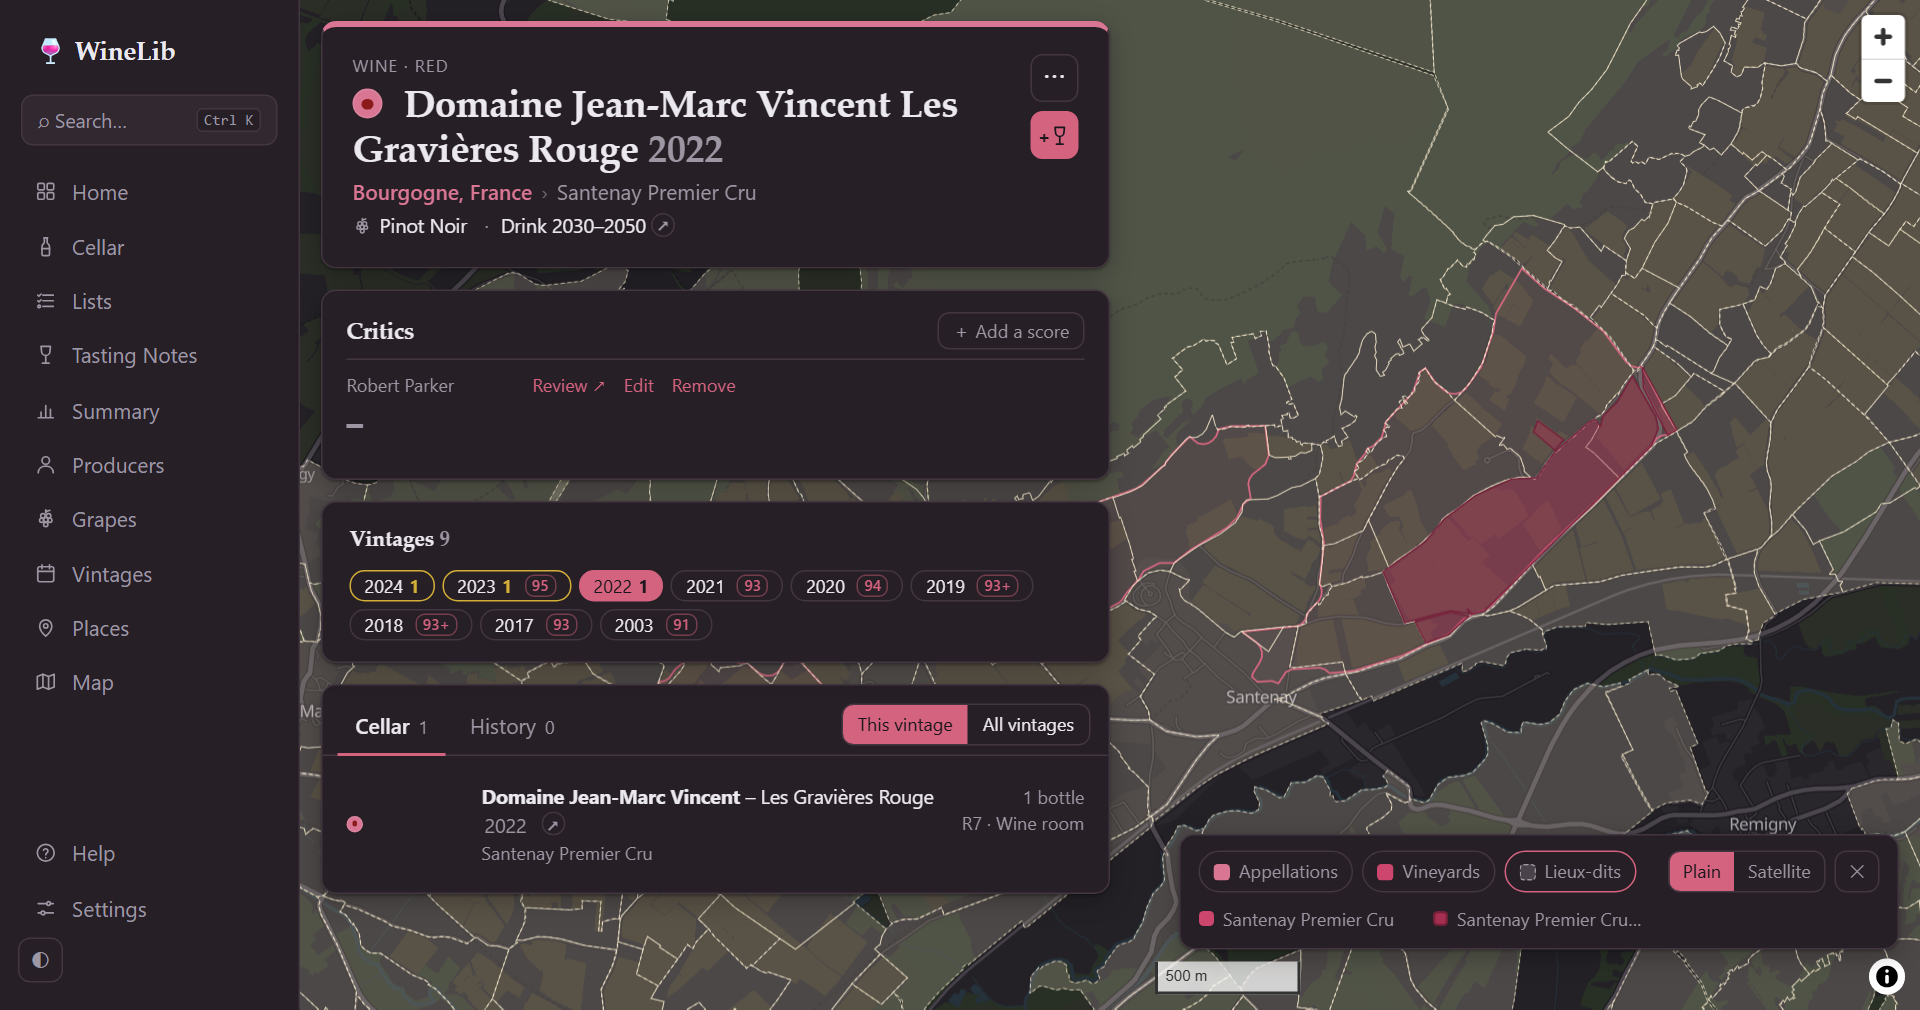
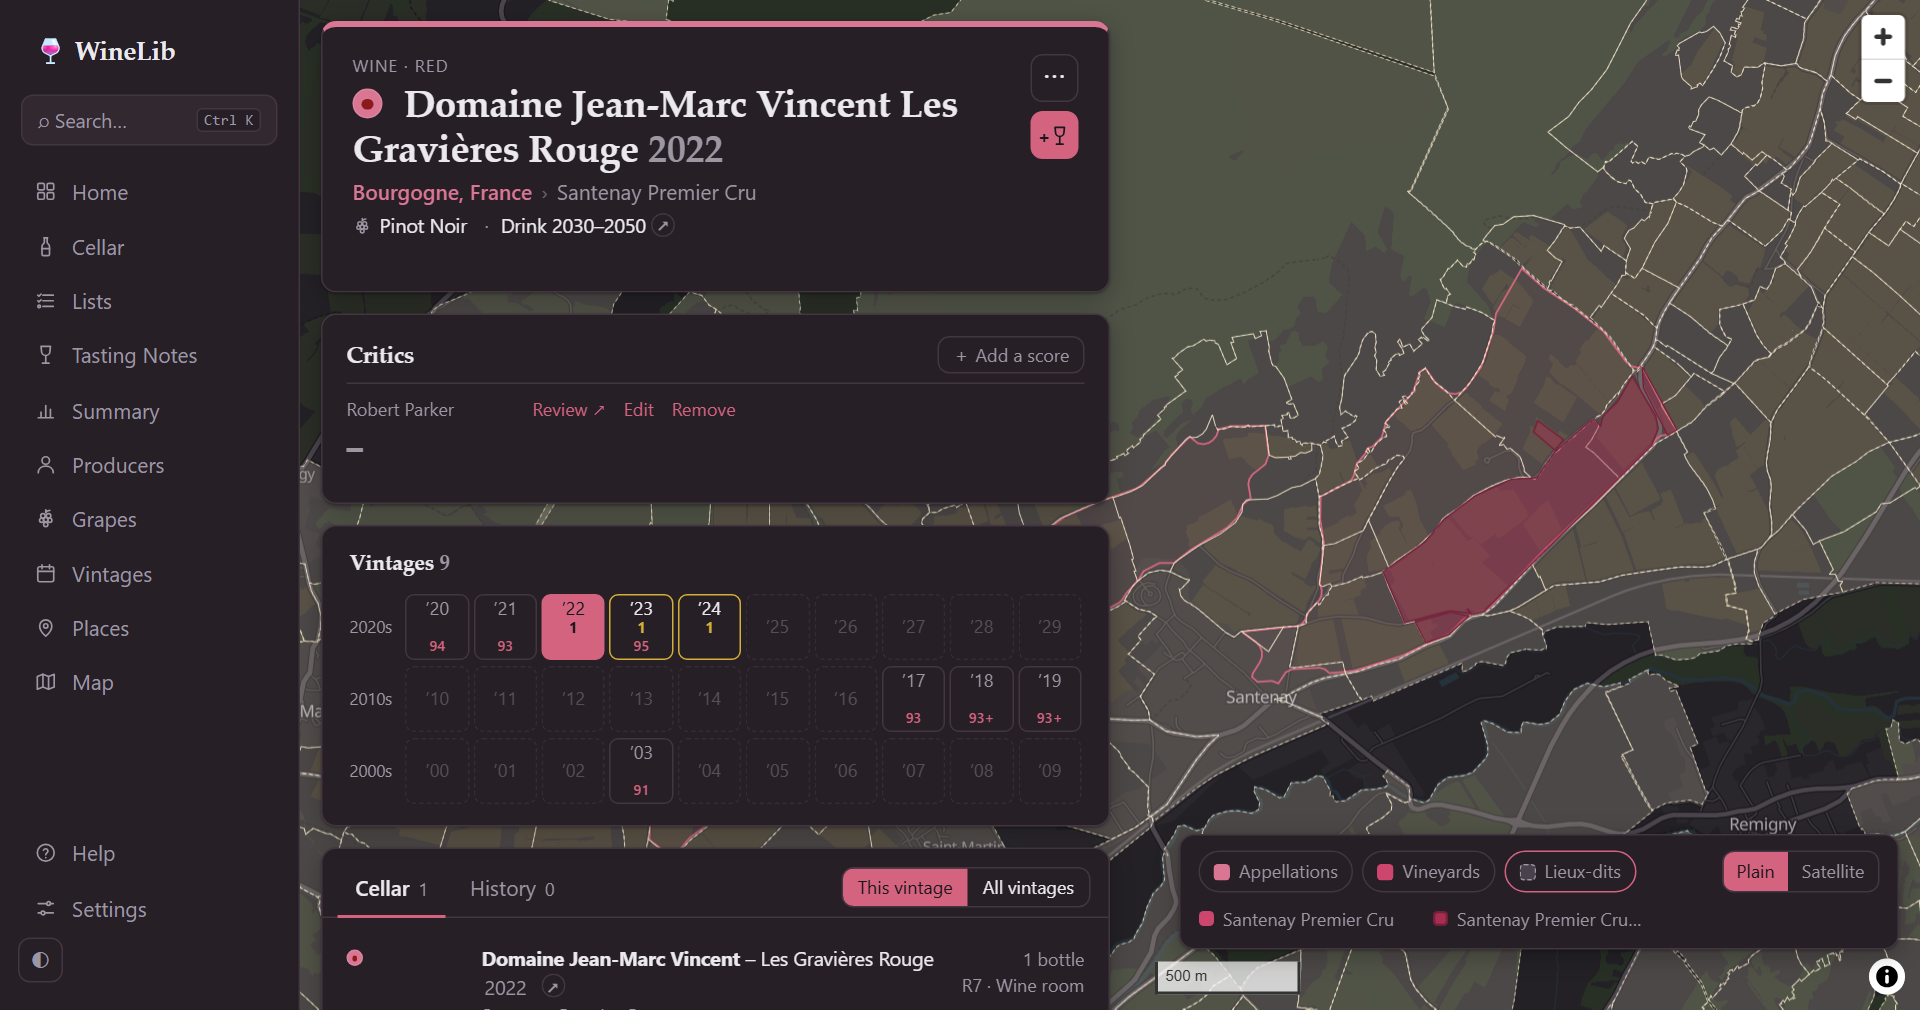
v0.8.0: the changelog, the version, the screenshots retaken

diff --git a/app/api/version.py b/app/api/version.py
@@ -1,3 +1,3 @@
 """The version this code is: the last release's, with "+dev" for what came after it. A release sets it to its tag
 without the "v" (the release workflow refuses a tag that doesn't match)."""
-VERSION = "0.7.0"
+VERSION = "0.8.0"

diff --git a/CHANGELOG.md b/CHANGELOG.md
@@ -1,11 +1,17 @@
 # Changelog
 
-## Unreleased
+## v0.8.0
 
 - **A wine's label on its page**: upload the real one (a photo, a scan or a drawing: *Upload its label* in the ⋯
   menu, or drop an image on the label); a vintage without its own shows the nearest vintage's. Wine lists show each
   cuvée's labels small (a producer's cellar and history too), larger on hover or click. Settings › Labels: uploaded
-  labels, or none. Labels are kept with the photos, so the photo backups hold them.
+  labels, or none. Labels are kept with the photos, so the photo backups hold them, and follow a wine merged into
+  another.
+- **Vintages by decade**: a wine's Vintages card is a row a decade, a slot a year (the years in line from row to
+  row), each small cell with its bottles, tick and score.
+- **Wine lists fold their vintages**: a producer's, a vineyard's or a vintage's list shows each cuvée in two lines
+  (how many vintages, which years; bottles, tasted), a click opening them in one column; its labels in a strip at
+  the right, slid left and right.
 - **Maps always full size**: a page's map always fills the window, its details over it (Settings › Appearance ›
   Maps and the map's ⤢ / Back to the page are gone). A wine whose appellation and vineyard have no outline shows its
   region's, so its page keeps the same layout.
